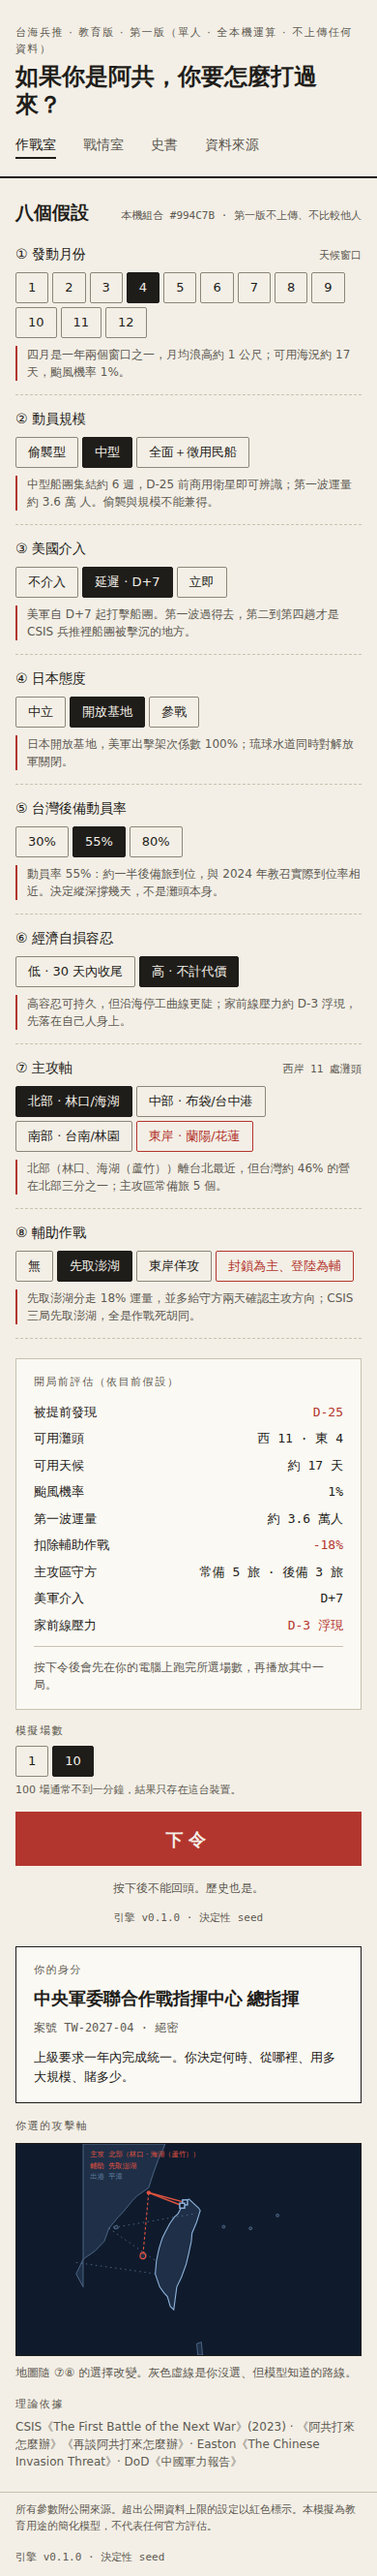
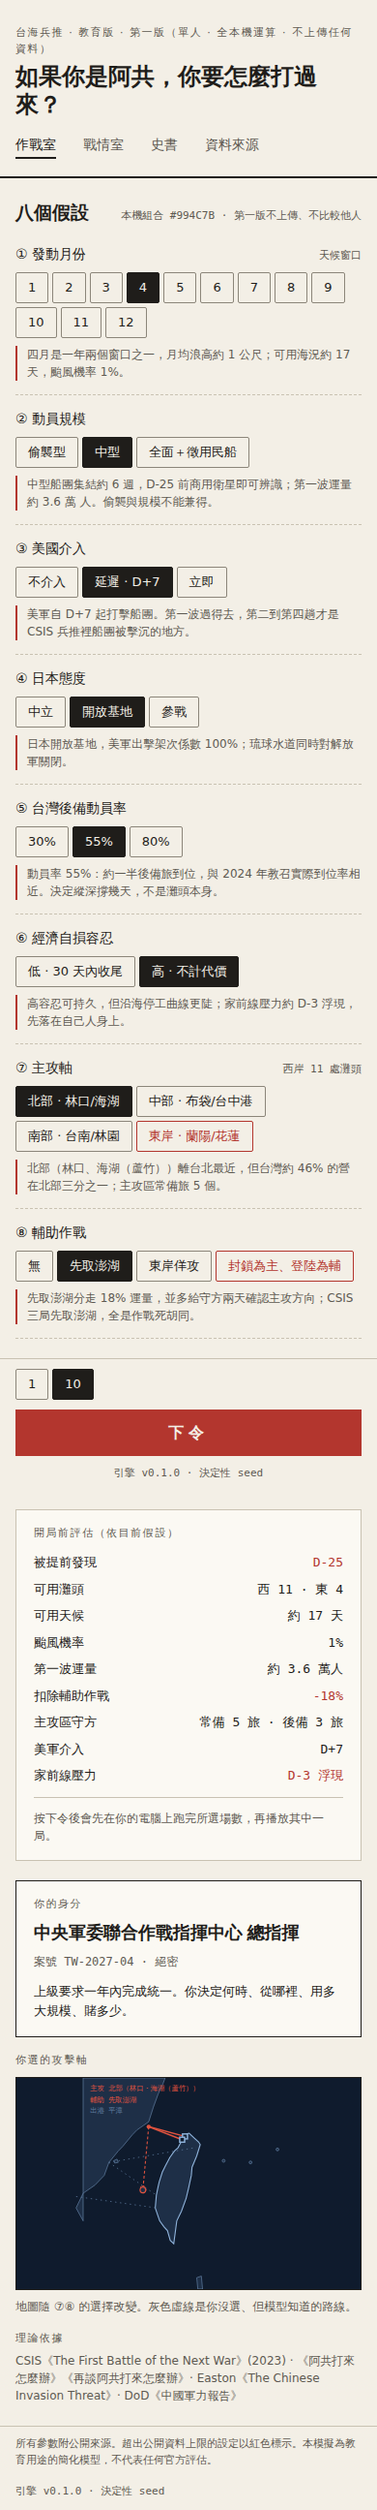
作戰室：下令與場數移到右欄最上方，開局前評估放下面；手機下令區塊固定在畫面底部
Claude-Session: https://claude.ai/code/session_012N7fRCwrh4WELHws2biFXP

diff --git a/src/ui/warroom/Warroom.tsx b/src/ui/warroom/Warroom.tsx
@@ -218,6 +218,39 @@ export function Warroom({ onOrder }: { onOrder: () => void }) {
       </div>
 
       <div class="col" style="gap:14px">
+        <div class="order-block">
+        <div class="col" style="gap:6px">
+          <span class="lbl">模擬場數</span>
+          <div class="pills" role="radiogroup" aria-label="模擬場數">
+            {([1, 10, 100] as const)
+              .filter((n) => !(mobile && n === 100))
+              .map((n) => (
+                <button key={n} type="button" role="radio" aria-checked={runCount.value === n} class={`pill${runCount.value === n ? ' on' : ''}`} disabled={running.value} onClick={() => (runCount.value = n)}>
+                  {n}
+                </button>
+              ))}
+          </div>
+          <div class="muted" style="font-size:11px">100 場通常不到一分鐘，結果只存在這台裝置。</div>
+        </div>
+        <button type="button" class="order" disabled={running.value} onClick={onOrder} data-testid="order">
+          {running.value && progress.value ? (
+            <span class="mono">
+              {progress.value.done} / {progress.value.total}
+            </span>
+          ) : (
+            '下令'
+          )}
+        </button>
+        {running.value && progress.value && (
+          <div class="progress" aria-hidden="true">
+            <div style={{ width: `${(100 * progress.value.done) / progress.value.total}%` }} />
+          </div>
+        )}
+        {error.value && <div class="red" style="font-size:12px">{error.value}</div>}
+        <div class="muted" style="font-size:12px;text-align:center">按下後不能回頭。歷史也是。</div>
+        <div class="mono muted" style="font-size:11px;text-align:center">引擎 {ENGINE_VERSION} · 決定性 seed</div>
+      </div>
+        </div>
         <div class="card soft" style="gap:12px">
           <div class="lbl">開局前評估（依目前假設）</div>
           <div class="kv">
@@ -267,37 +300,6 @@ export function Warroom({ onOrder }: { onOrder: () => void }) {
           <div class="hr" />
           <div class="muted" style="font-size:12px;line-height:18px">按下令後會先在你的電腦上跑完所選場數，再播放其中一局。</div>
         </div>
-        <div class="col" style="gap:6px">
-          <span class="lbl">模擬場數</span>
-          <div class="pills" role="radiogroup" aria-label="模擬場數">
-            {([1, 10, 100] as const)
-              .filter((n) => !(mobile && n === 100))
-              .map((n) => (
-                <button key={n} type="button" role="radio" aria-checked={runCount.value === n} class={`pill${runCount.value === n ? ' on' : ''}`} disabled={running.value} onClick={() => (runCount.value = n)}>
-                  {n}
-                </button>
-              ))}
-          </div>
-          <div class="muted" style="font-size:11px">100 場通常不到一分鐘，結果只存在這台裝置。</div>
-        </div>
-        <button type="button" class="order" disabled={running.value} onClick={onOrder} data-testid="order">
-          {running.value && progress.value ? (
-            <span class="mono">
-              {progress.value.done} / {progress.value.total}
-            </span>
-          ) : (
-            '下令'
-          )}
-        </button>
-        {running.value && progress.value && (
-          <div class="progress" aria-hidden="true">
-            <div style={{ width: `${(100 * progress.value.done) / progress.value.total}%` }} />
-          </div>
-        )}
-        {error.value && <div class="red" style="font-size:12px">{error.value}</div>}
-        <div class="muted" style="font-size:12px;text-align:center">按下後不能回頭。歷史也是。</div>
-        <div class="mono muted" style="font-size:11px;text-align:center">引擎 {ENGINE_VERSION} · 決定性 seed</div>
-      </div>
     </div>
   );
 }

diff --git a/src/ui/theme.css b/src/ui/theme.css
@@ -59,7 +59,8 @@ button { font: inherit; color: inherit; background: none; border: 0; padding: 0;
 .kv { display: flex; flex-direction: column; gap: 8px; font-size: 13px; }
 .kv > div { display: flex; justify-content: space-between; gap: 12px; }
 .hr { height: 1px; background: var(--rule); }
-.order { display: flex; align-items: center; justify-content: center; height: 56px; background: var(--red); color: var(--paper); font-size: 18px; font-weight: 700; letter-spacing: .3em; margin-top: auto; width: 100%; }
+.order { display: flex; align-items: center; justify-content: center; height: 56px; background: var(--red); color: var(--paper); font-size: 18px; font-weight: 700; letter-spacing: .3em; width: 100%; }
+.order-block { display: flex; flex-direction: column; gap: 10px; }
 .order:disabled { opacity: .6; cursor: progress; }
 .order .mono { letter-spacing: 0; font-size: 14px; font-weight: 500; }
 
@@ -295,4 +296,11 @@ button { font: inherit; color: inherit; background: none; border: 0; padding: 0;
   .page.fit .sit-meta { display: flex; }
   .page.fit .tlabels span:nth-child(2), .page.fit .tlabels span:nth-child(5) { display: none; }
   .endcard { position: fixed; top: auto; bottom: 12px; left: 12px; right: 12px; width: auto; transform: none; }
+}
+
+@media (max-width: 720px) {
+  /* 手機：下令區塊固定在畫面底部，不用下捲 */
+  .order-block { position: sticky; bottom: 0; z-index: 5; background: var(--paper); padding: 10px 0 8px; border-top: 1px solid var(--rule); margin: 0 -16px; padding-left: 16px; padding-right: 16px; }
+  .order-block .lbl, .order-block .muted:not(.mono) { display: none; }
+  .order-block .order { height: 48px; font-size: 16px; }
 }
